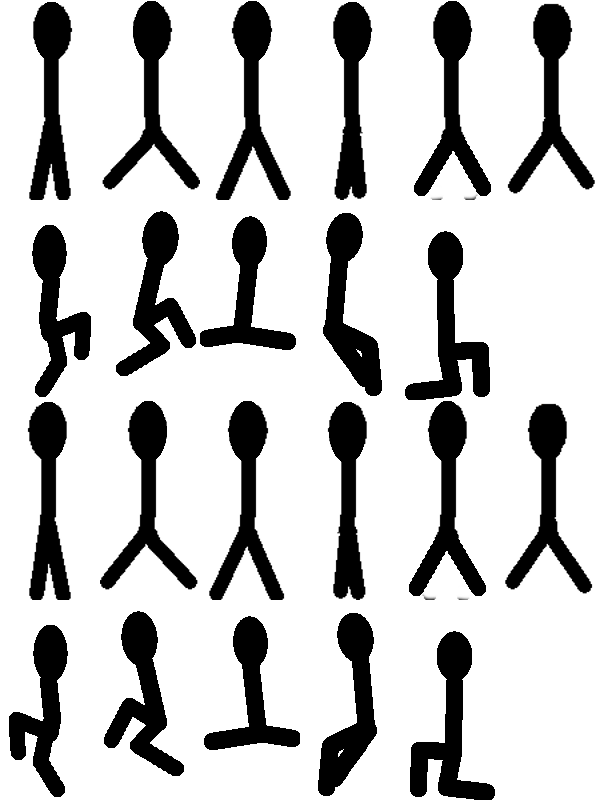
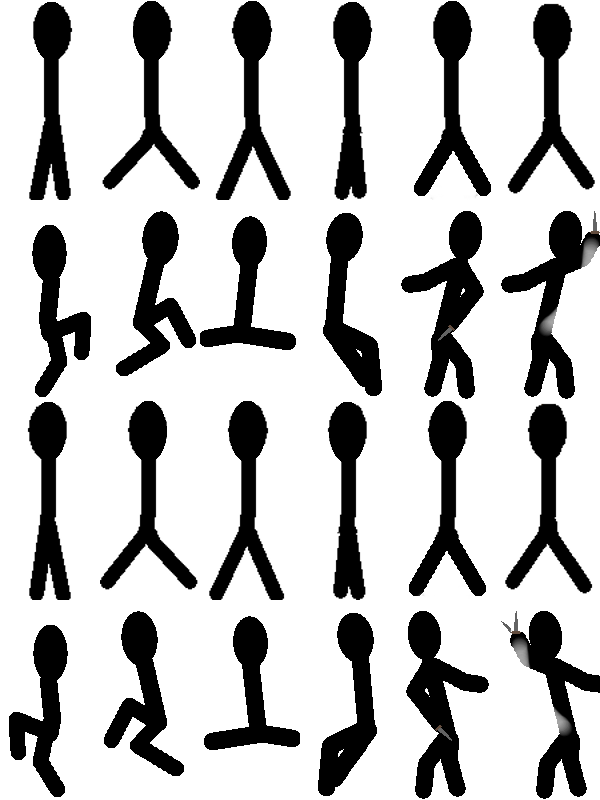
Add hand to hand animation and delete EmptyLevelState.

diff --git a/include/TheLostGirl/states.h b/include/TheLostGirl/states.h
@@ -8,7 +8,6 @@
 #include <TheLostGirl/states/GameState.h>
 #include <TheLostGirl/states/HUDState.h>
 #include <TheLostGirl/states/PauseState.h>
-#include <TheLostGirl/states/EmptyLevelState.h>
 #include <TheLostGirl/states/OpenInventoryState.h>
 
 #endif//STATES_H
